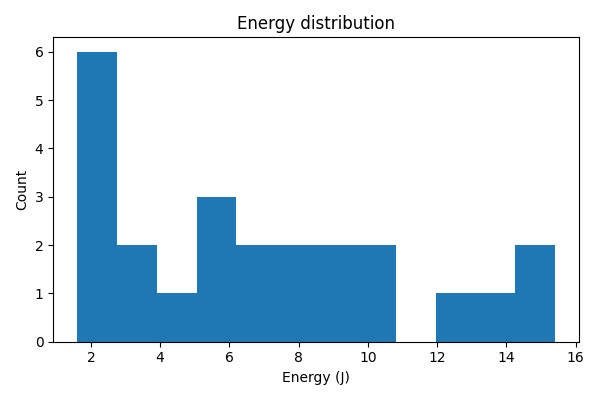
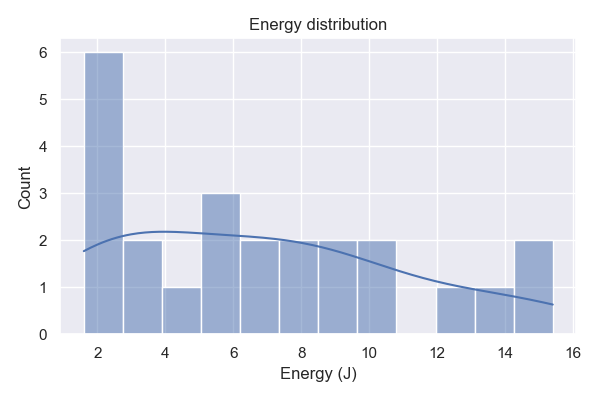
Modificato lo scrypt scripts/plot_energy.py utilizzando anche il package seaborn. Aggiunto anche il package scikit-learn per rappresentazioni future di regressioni lineari su grafici.

diff --git a/scripts/plot_energy.py b/scripts/plot_energy.py
@@ -1,6 +1,6 @@
 """
 Semplice script per leggere consumi energetici di inferenze LLM da CSV
-e produrre alcuni grafici con pandas + matplotlib.
+e produrre alcuni grafici con seaborn.
 
 Uso:
   python scripts/plot_energy.py
@@ -10,6 +10,7 @@ stampa un messaggio d'errore. Salva i plot in recordings/plots/.
 """
 from pathlib import Path
 import pandas as pd
+import seaborn as sns
 import matplotlib.pyplot as plt
 
 
@@ -25,10 +26,11 @@ def main():
         return
 
     df = pd.read_csv(csv_path, parse_dates=["timestamp"]) 
+    sns.set_theme(style="darkgrid")
 
-    # Grafico 1: energia (joules) nel tempo
+    # Grafico 1: energia (joules) nel tempo con seaborn lineplot
     plt.figure(figsize=(10, 4))
-    plt.plot(df["timestamp"], df["energy_joules"], marker="o", linestyle="-")
+    sns.lineplot(x="timestamp", y="energy_joules", data=df, marker="o")
     plt.xlabel("Timestamp")
     plt.ylabel("Energy (J)")
     plt.title("Energy per inference over time")
@@ -36,9 +38,9 @@ def main():
     plt.savefig(out_dir / "energy_time_series.png")
     plt.close()
 
-    # Grafico 2: histogram energia
+    # Grafico 2: histogram energia con seaborn
     plt.figure(figsize=(6, 4))
-    plt.hist(df["energy_joules"], bins=12)
+    sns.histplot(data=df, x="energy_joules", bins=12, kde=True)
     plt.xlabel("Energy (J)")
     plt.ylabel("Count")
     plt.title("Energy distribution")
@@ -48,18 +50,17 @@ def main():
 
     # Grafico 3: boxplot per modello
     plt.figure(figsize=(6, 4))
-    df.boxplot(column="energy_joules", by="model")
+    sns.boxplot(data=df, x="model", y="energy_joules")
     plt.xlabel("Model")
     plt.ylabel("Energy (J)")
     plt.title("Energy by model")
-    plt.suptitle("")
     plt.tight_layout()
     plt.savefig(out_dir / "energy_by_model.png")
     plt.close()
 
-    # Grafico 4: scatter duration vs energy
+    # Grafico 4: scatter duration vs energy con regressione
     plt.figure(figsize=(6, 4))
-    plt.scatter(df["duration_ms"], df["energy_joules"], alpha=0.7)
+    sns.scatterplot(data=df, x="duration_ms", y="energy_joules", hue="model", s=100, alpha=0.7)
     plt.xlabel("Duration (ms)")
     plt.ylabel("Energy (J)")
     plt.title("Duration vs Energy")
